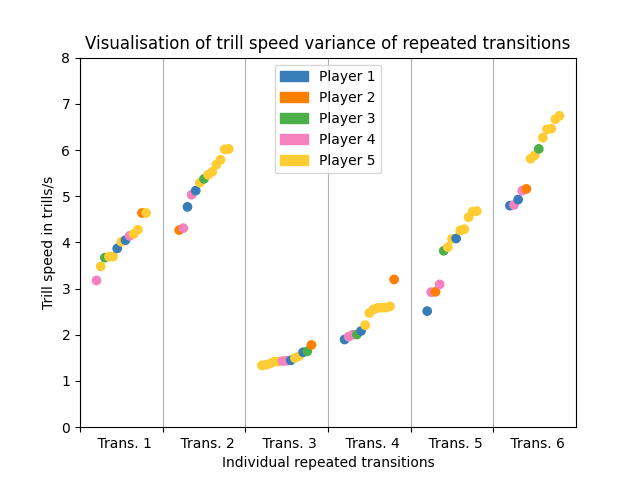
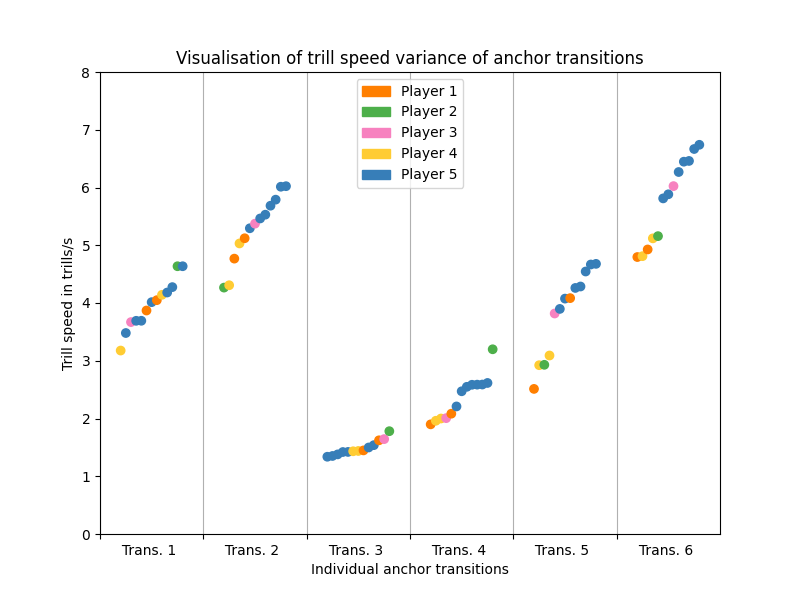
Back to old var vis

diff --git a/anchor_trills_visualiser.py b/anchor_trills_visualiser.py
@@ -40,7 +40,7 @@ with open(args.data, 'r') as f:
 vals = {}
 player_colors = []
 player_order = []
-player_colors = ['#377eb8', '#ff7f00', '#4daf4a', '#f781bf', '#ffcc33']
+player_colors = ['#ff7f00', '#4daf4a', '#f781bf', '#ffcc33', '#377eb8']
 
 for player in player_to_anchor_trills.keys():
     sessions = player_to_anchor_trills[player].keys()
@@ -56,7 +56,7 @@ for player in player_to_anchor_trills.keys():
 
     player_order.append(player)
 
-x_names = [f"    Trans. {i+1}" for i in range(len(player_order)+1)]
+x_names = [f"     Trans. {i+1}" for i in range(len(player_order)+1)]
 
 xs = []
 ys = []
@@ -72,14 +72,15 @@ for x in vals.keys():
 player_order = [f"Player {i+1}" for i in range(len(player_order))]
 
 ax = plt.gca()
+plt.gcf().set_size_inches(8, 6)
 plt.scatter(xs, ys, color=colors)
 plt.xticks(ticks=[0, 1, 2, 3, 4, 5], labels=x_names)
 plt.xlim((0, 6))
 for tick in ax.xaxis.get_majorticklabels():
     tick.set_horizontalalignment("left")
-plt.xlabel("Individual repeated transitions")
+plt.xlabel("Individual anchor transitions")
 plt.ylabel("Trill speed in trills/s")
-plt.title("Visualisation of trill speed variance of repeated transitions")
+plt.title("Visualisation of trill speed variance of anchor transitions")
 plt.grid(visible=True, axis='x')
 legend_patches = [Patch(color=color, label=name) for color, name in zip(player_colors, player_order)]
 plt.legend(handles=legend_patches, loc="upper center")
